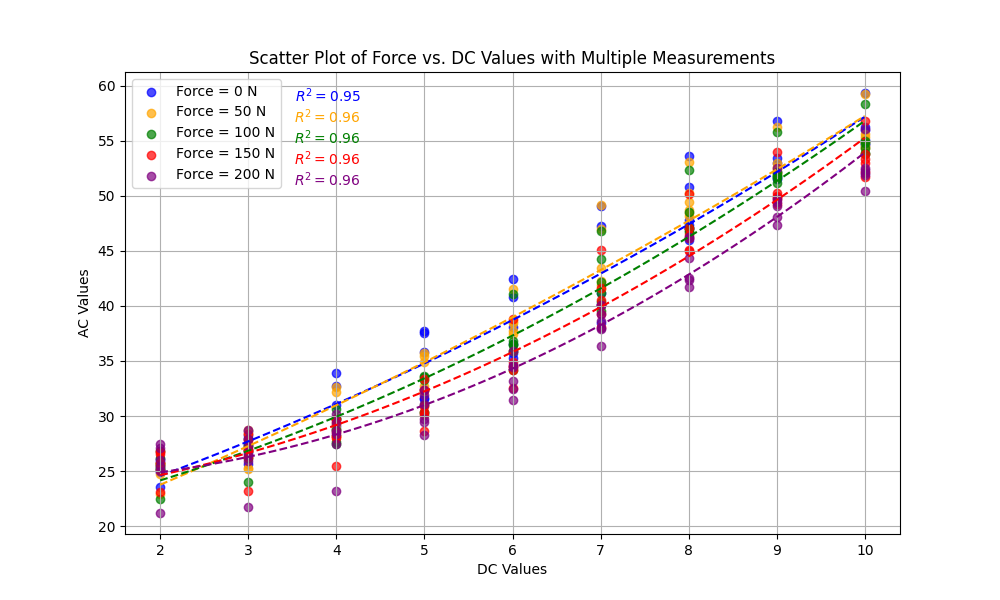
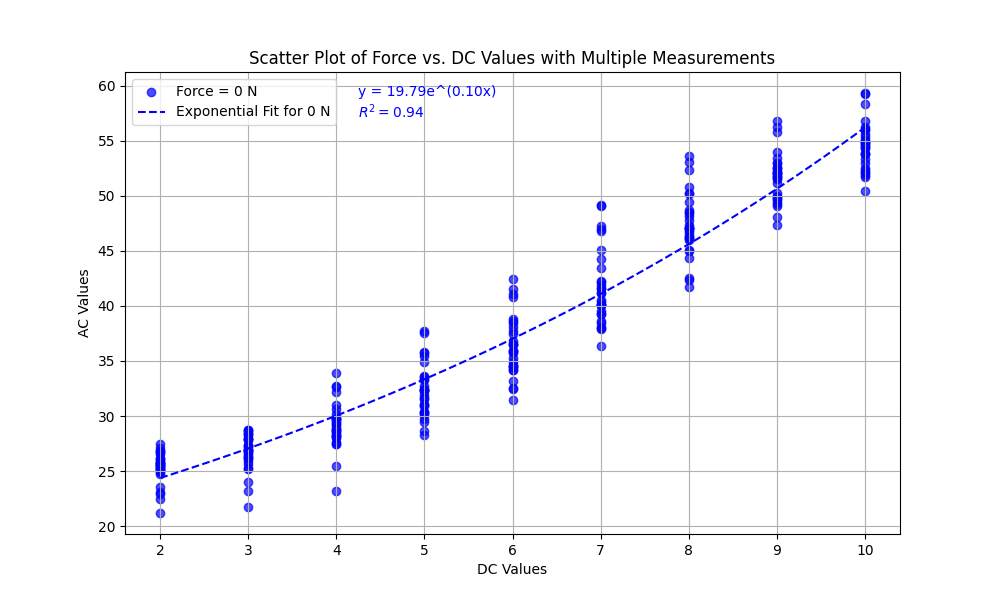
all point same colour and trend

diff --git a/ProcessData.py b/ProcessData.py
@@ -1,5 +1,10 @@
 import matplotlib.pyplot as plt
 import numpy as np
+from scipy.optimize import curve_fit
+
+# Define the exponential function
+def exp_func(x, a, b):
+    return a * np.exp(b * x)
 
 # Initialize lists to store AC data
 data_0AC = []
@@ -52,7 +57,7 @@ for x in range(0,5):
             dc_8a.append(float(line[6]))
             dc_9a.append(float(line[7]))
             dc_10a.append(float(line[8]))
-        data_zip_0AC = [dc_2a,dc_3a,dc_4a,dc_5a,dc_6a,dc_7a,dc_8a,dc_9a,dc_10a]
+        # data_zip_0AC = [dc_2a,dc_3a,dc_4a,dc_5a,dc_6a,dc_7a,dc_8a,dc_9a,dc_10a]
 
     if x == 1:
         for line in data_50AC:
@@ -65,7 +70,7 @@ for x in range(0,5):
             dc_8a.append(float(line[6]))
             dc_9a.append(float(line[7]))
             dc_10a.append(float(line[8]))
-        data_zip_50AC = [dc_2a,dc_3a,dc_4a,dc_5a,dc_6a,dc_7a,dc_8a,dc_9a,dc_10a]
+        # data_zip_50AC = [dc_2a,dc_3a,dc_4a,dc_5a,dc_6a,dc_7a,dc_8a,dc_9a,dc_10a]
 
     if x == 2:
         for line in data_100AC:
@@ -78,7 +83,7 @@ for x in range(0,5):
             dc_8a.append(float(line[6]))
             dc_9a.append(float(line[7]))
             dc_10a.append(float(line[8]))
-        data_zip_100AC = [dc_2a,dc_3a,dc_4a,dc_5a,dc_6a,dc_7a,dc_8a,dc_9a,dc_10a]
+        # data_zip_100AC = [dc_2a,dc_3a,dc_4a,dc_5a,dc_6a,dc_7a,dc_8a,dc_9a,dc_10a]
 
     if x == 3:
         for line in data_150AC:
@@ -91,7 +96,7 @@ for x in range(0,5):
             dc_8a.append(float(line[6]))
             dc_9a.append(float(line[7]))
             dc_10a.append(float(line[8]))
-        data_zip_150AC = [dc_2a,dc_3a,dc_4a,dc_5a,dc_6a,dc_7a,dc_8a,dc_9a,dc_10a]
+        # data_zip_150AC = [dc_2a,dc_3a,dc_4a,dc_5a,dc_6a,dc_7a,dc_8a,dc_9a,dc_10a]
 
     if x == 4:
         for line in data_200AC:
@@ -104,25 +109,21 @@ for x in range(0,5):
             dc_8a.append(float(line[6]))
             dc_9a.append(float(line[7]))
             dc_10a.append(float(line[8]))
-        data_zip_200AC = [dc_2a,dc_3a,dc_4a,dc_5a,dc_6a,dc_7a,dc_8a,dc_9a,dc_10a]
+        # data_zip_200AC = [dc_2a,dc_3a,dc_4a,dc_5a,dc_6a,dc_7a,dc_8a,dc_9a,dc_10a]
 
     x += 1
-    dc_2a = []
-    dc_3a = []
-    dc_4a = []
-    dc_5a = []
-    dc_6a = []
-    dc_7a = []
-    dc_8a = []
-    dc_9a = []
-    dc_10a = []
+    # dc_2a = []
+    # dc_3a = []
+    # dc_4a = []
+    # dc_5a = []
+    # dc_6a = []
+    # dc_7a = []
+    # dc_8a = []
+    # dc_9a = []
+    # dc_10a = []
 
 data = {
-    0: data_zip_0AC,
-    50: data_zip_50AC,
-    100: data_zip_100AC,
-    150: data_zip_150AC,
-    200: data_zip_200AC
+    0: [dc_2a,dc_3a,dc_4a,dc_5a,dc_6a,dc_7a,dc_8a,dc_9a,dc_10a],
 }
 # Create a scatter plot
 plt.figure(figsize=(10, 6))
@@ -145,25 +146,30 @@ for idx, (force, ac_values_list) in enumerate(data.items()):
     color = colors[idx]  # Select color based on index
     plt.scatter(x_values, y_values, label=f'Force = {force} N', alpha=0.7, color=color)
 
-    # Calculate and plot the trendline
-    if x_values and y_values:  # Check if there are data points
-        # Fit a polynomial of degree 2 (quadratic) to better capture the trend
-        z = np.polyfit(x_values, y_values, 2)  # Change to 2 for a quadratic fit
-        p = np.poly1d(z)  # Create a polynomial function
+    # Fit the model
+    params, covariance = curve_fit(exp_func, x_values, y_values)
+    a, b = params  # Extract the parameters
 
-        # Generate x values for the trendline
-        x_fit = np.linspace(min(x_values), max(x_values), 100)
-        plt.plot(x_fit, p(x_fit), linestyle='--', color=color)  # Plot the trendline with the same color
+    # Create the equation string for display
+    equation = f'y = {a:.2f}e^({b:.2f}x)'
 
-        # Calculate R^2
-        y_fit = p(x_values)
-        ss_res = np.sum((y_values - y_fit) ** 2)  # Residual sum of squares
-        ss_tot = np.sum((y_values - np.mean(y_values)) ** 2)  # Total sum of squares
-        r_squared = 1 - (ss_res / ss_tot)
+    # Generate x values for the trendline
+    x_fit = np.linspace(min(x_values), max(x_values), 100)
+    y_fit = exp_func(x_fit, a, b)  # Calculate the exponential values
 
-        # Determine the position to display R^2
-        offset = -1.9 # Adjust the offset based on the index
-        plt.text(3.9,58.5+idx*offset,f'$R^2 = {r_squared:.2f}$', color=color, fontsize=10, ha='center')
+    # Plot the trendline with the same color
+    plt.plot(x_fit, y_fit, linestyle='--', color=color, label=f'Exponential Fit for {force} N')
+
+
+    # Calculate R^2
+    residuals = y_values - exp_func(np.array(x_values), a, b)
+    ss_res = np.sum(residuals**2)  # Residual sum of squares
+    ss_tot = np.sum((y_values - np.mean(y_values))**2)  # Total sum of squares
+    r_squared = 1 - (ss_res / ss_tot)
+
+    # Display the equation and R^2 on the plot
+    plt.text(0.3, 0.9 - idx * 0.1, f'{equation}\n$R^2 = {r_squared:.2f}$', 
+             color=color, fontsize=10, transform=plt.gca().transAxes)
 
 # Adding labels and title
 plt.title('Scatter Plot of Force vs. DC Values with Multiple Measurements')
